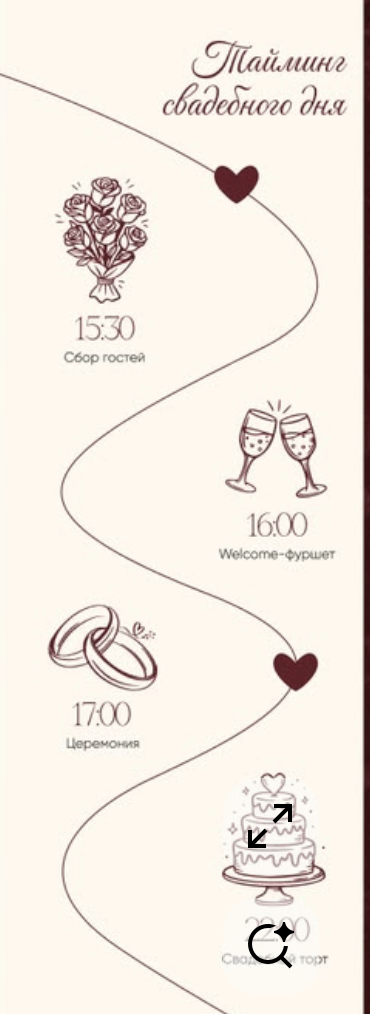
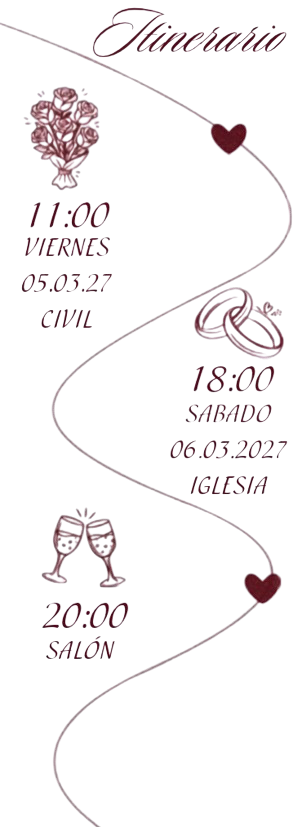
ARREGLAR LO DE LAS PERLAS

diff --git a/index.html b/index.html
@@ -34,14 +34,16 @@
      
       <h1 class="cover-names"><span class="name">Ignacio</span> <span class="amp">&amp;</span> <span class="name">Rocio</span></h1>
       <h2 class="cover-title">¡Nuestra Boda!</h2>
-      <p class="cover-quote">"Te elijo hoy y por el resto de mi vida"</p>
+      <p class="cover-quote">Nuestras almas se encontraron en el momento perfecto.
+ Hoy, nuestro sueño se hace realidad y queremos que seas parte de nuestro felices para siempre.</p>
 
-    </div>
-    <div class="cover-scroll">
-      <span>Deslizá</span>
-      <svg class="scroll-arrow" viewBox="0 0 24 24" fill="none" stroke="currentColor" stroke-width="1.6" stroke-linecap="round" stroke-linejoin="round" aria-hidden="true">
-        <path d="M6 9l6 6 6-6" />
-      </svg>
+      <div class="cover-scroll">
+        <span>Deslizá</span>
+        <svg class="scroll-arrow" viewBox="0 0 24 24" fill="none" stroke="currentColor" stroke-width="1.6" stroke-linecap="round" stroke-linejoin="round" aria-hidden="true">
+          <path d="M6 9l6 6 6-6" />
+        </svg>
+      </div>
+
     </div>
   </section>
 
@@ -50,7 +52,7 @@
     <div class="section-inner">
       <p class="section-eyebrow reveal">La fecha</p>
       <h2 class="section-title reveal">¿Cuándo nos casamos?</h2>
-      <p class="section-sub reveal">Nos casamos y queremos que seas parte de este momento tan especial.</p>
+    
 
       <div class="scratch-group reveal" id="scratch-group">
         <div class="scratch-circle" id="scratch-1">
@@ -94,25 +96,20 @@
   <!-- ===== ITINERARIO ===== -->
   <section id="itinerario" class="section cream">
     <div class="section-inner">
-      <p class="section-eyebrow gold reveal">Itinerario</p>
-      <h2 class="section-title reveal">El día de nuestra boda</h2>
-      <ul class="timeline reveal">
-        <li class="timeline-item">
-          <span class="timeline-time">18:00</span>
-          <span class="timeline-dot"></span>
-          <span class="timeline-event">Ceremonia</span>
-        </li>
-        <li class="timeline-item">
-          <span class="timeline-time">19:00</span>
-          <span class="timeline-dot"></span>
-          <span class="timeline-event">Recepción</span>
-        </li>
-        <li class="timeline-item">
-          <span class="timeline-time">20:30</span>
-          <span class="timeline-dot"></span>
-          <span class="timeline-event">Cena</span>
-        </li>
-      </ul>
+      <img class="itinerario-img reveal" src="assets/itinerario.png" alt="Itinerario del casamiento" />
+    </div>
+  </section>
+
+  <!-- ===== CIVIL ===== -->
+  <section id="civil" class="section dark video-bg glass-card-section">
+    <div class="section-inner glass-card">
+      <p class="section-eyebrow gold reveal">Civil</p>
+      <h2 class="section-title reveal">Registro Civil</h2>
+      <div class="event-meta reveal">
+        <p class="event-day">Viernes 5 · Marzo · 2027</p>
+        <p class="event-time">11:00 Hs</p>
+      </div>
+      <a class="btn outline reveal" href="https://www.google.com/maps/place/Delegaci%C3%B3n+Registro+Provincial+de+las+Personas+-+Mar+de+Ajo/@-36.7259494,-56.6757776,19z/data=!4m10!1m2!2m1!1sregistro+civil+mar+de+ajo!3m6!1s0x959c658ac9caad2b:0x949e29b48c77f63e!8m2!3d-36.7259494!4d-56.6746511!15sChlyZWdpc3RybyBjaXZpbCBtYXIgZGUgYWpvWhsiGXJlZ2lzdHJvIGNpdmlsIG1hciBkZSBham-SARNyZWdpc3RyYXRpb25fb2ZmaWNlmgEjQ2haRFNVaE5NRzluUzBWSlEwRm5TVVJmY0c5aU5WZG5FQUXgAQD6AQQIABBI!16s%2Fg%2F11g8wvjzp6?entry=ttu&g_ep=EgoyMDI2MDgxNi4wIKXMDSoASAFQAw%3D%3D" target="_blank" rel="noopener">Cómo llegar</a>
     </div>
   </section>
 
@@ -156,7 +153,7 @@
       </div>
       <p class="section-eyebrow gold reveal">Retratos</p>
       <h2 class="section-title reveal">Retratos de nuestro amor</h2>
-      <p class="section-sub reveal">La clave es disfrutar cada momento</p>
+
 
       <div class="gallery reveal" id="galeria">
         <figure class="g-item"><img src="assets/photo1.svg" alt="Foto 1" loading="lazy" /></figure>
@@ -190,15 +187,17 @@
         </svg>
       </div>
       <p class="section-eyebrow reveal">Dress Code</p>
-      <h2 class="section-title reveal">Una orientación<br />para tu vestimenta</h2>
-      <p class="dress-tag reveal">Formal / Elegante</p>
-      <p class="palette-note reveal">Evitá colores claros, beige y blanco.</p>
+    
+      <div class="dress-tag reveal">
+        <span class="dress-tag-title">Formal / Elegante</span>
+        <p class="palette-note">Evitá colores blancos, beige y claros.</p>
+      </div>
       <p class="section-sub reveal">Te dejamos algunos colores de sugerencia</p>
 
       <button class="btn solid reveal toggle-btn" data-toggle="dress-panel" data-more="Ver más" data-less="Ver menos">Ver más</button>
 
       <div class="panel panel-soft" id="dress-panel">
-        <p class="palette-title">Formal · Elegante</p>
+        <p class="palette-title">Paleta de colores</p>
         <ul class="palette">
           <li><span class="swatch" style="--c:#161616"></span>Negro</li>
           <li><span class="swatch" style="--c:#1f3d2b"></span>Verde</li>
@@ -217,7 +216,8 @@
       <ul class="tips-list reveal" id="tips-list">
         <li><span class="tip-mark">+</span> Por favor, ¡ser puntuales!</li>
         <li class="tip-extra"><span class="tip-mark">+</span> Llevar abrigo para disfrutar de los espacios exteriores.</li>
-        <li class="tip-extra"><span class="tip-mark">+</span> Llevar taco bajo o con plataforma, ya que la entrada es de pasto.</li>
+        <li class="tip-extra"><span class="tip-mark">+</span> Llevar taco bajo o con plataforma, ya que la entrada del salon es pasto.</li>
+                <li class="tip-extra"><span class="tip-mark">+</span> Llevar toallon/muda de ropa por si queres disfrutar de la pileta.</li>
         <li class="tip-extra"><span class="tip-mark">+</span> Olvidarse de todo y disfrutar!!!</li>
       </ul>
       <button class="btn outline reveal toggle-btn" data-toggle="tips-list" data-more="Ver tips" data-less="Ver menos">Ver tips</button>
@@ -252,9 +252,8 @@
         </svg>
       </div>
       <p class="section-eyebrow reveal">Regalos</p>
-      <h2 class="section-title reveal">Si querés darnos algo más<br />que tu hermosa presencia</h2>
-      <p class="section-sub reveal">Contaremos con sobres disponibles para depositar en el cofre. También pueden contribuir mediante:</p>
-
+      <h2 class="section-title reveal">Tu presencia es nuestro mejor regalo</h2>
+      <p class="section-sub reveal">Si querés hacernos un presente, podés colaborar con nuestra luna de miel</p>
       <button class="btn solid reveal toggle-btn" data-toggle="gift-panel" data-more="Ver más" data-less="Ver menos">Ver más</button>
 
       <div class="panel panel-gift" id="gift-panel">
@@ -276,8 +275,8 @@
         </svg>
       </div>
       <p class="section-eyebrow reveal">Invitación personal</p>
-      <h2 class="section-title reveal">Una invitación exclusiva</h2>
-      <p class="section-sub reveal">Esta invitación es exclusivamente para la persona a quien se está enviando.</p>
+      <h2 class="section-title reveal">Esta invitación es exclusivamente para la persona a quien se está enviando.</h2>
+      <p class="section-sub reveal">No te olvides de completar el fomulario mas abajo.</p>
     </div>
   </section>
 

diff --git a/css/styles.css b/css/styles.css
@@ -69,6 +69,20 @@ img { display: block; max-width: 100%; }
 
 .section.cream, .section.dark { background: #fff; color: var(--text-on-cream); }
 
+/* ====== PERLAS EN ESQUINAS ====== */
+.perla-corner {
+  position: absolute;
+  width: 90px;
+  height: auto;
+  pointer-events: none;
+  z-index: 2;
+}
+
+.perla-tl { top: 6px; left: 6px; }
+.perla-tr { top: 6px; right: 6px; transform: scaleX(-1); }
+.perla-bl { bottom: 6px; left: 6px; transform: scaleY(-1); }
+.perla-br { bottom: 6px; right: 6px; transform: scale(-1, -1); }
+
 .section.video-bg { background: transparent; color: var(--cream); }
 
 .section.video-bg::before,
@@ -165,6 +179,13 @@ img { display: block; max-width: 100%; }
 }
 
 /* ====== ITINERARIO ====== */
+.itinerario-img {
+  width: 100%;
+  max-width: 370px;
+  display: block;
+  margin: 0 auto;
+  border-radius: 14px;
+}
 .timeline {
   list-style: none;
   margin-top: 40px;
@@ -307,14 +328,11 @@ img { display: block; max-width: 100%; }
 }
 
 .cover-scroll {
-  position: absolute;
-  bottom: 160px;
-  left: 50%;
-  transform: translateX(-50%);
   display: flex;
   flex-direction: column;
   align-items: center;
   gap: 10px;
+  margin-top: 40px;
   color: var(--text-on-cream);
   opacity: 0.8;
   font-family: var(--sans);
@@ -506,11 +524,12 @@ img { display: block; max-width: 100%; }
   text-transform: uppercase;
   color: var(--gold-light);
   opacity: 0.8;
+  text-align: center;
 }
 
 /* ====== DRESS CODE ====== */
 .dress-tag {
-  display: inline-block;
+  display: block;
   font-family: var(--script);
   font-size: 40px;
   color: var(--gold);
@@ -518,6 +537,20 @@ img { display: block; max-width: 100%; }
   border-radius: 60px;
   padding: 12px 38px 18px;
   margin: 10px 0 30px;
+  text-align: center;
+}
+
+.dress-tag-title {
+  display: block;
+}
+
+.dress-tag .palette-note {
+  font-size: 12px;
+  letter-spacing: 1.5px;
+  text-transform: uppercase;
+  font-family: var(--sans);
+  color: var(--gold);
+  margin-top: 6px;
 }
 
 /* ====== TIPS ====== */
@@ -1097,8 +1130,8 @@ body.no-scroll { overflow: hidden; }
   position: absolute;
   bottom: -70px;
   border-radius: 50%;
-  background: radial-gradient(circle at 32% 30%, rgba(255, 255, 255, 0.4), rgba(178, 58, 78, 0.28) 55%, rgba(110, 20, 35, 0.18));
-  border: 1px solid rgba(255, 255, 255, 0.35);
+  background: radial-gradient(circle at 32% 30%, rgba(255, 255, 255, 0.7), rgba(178, 58, 78, 0.45) 55%, rgba(110, 20, 35, 0.3));
+  border: 1.5px solid rgba(255, 255, 255, 0.6);
   animation: bubbleRise linear infinite;
   will-change: transform, opacity;
 }
@@ -1108,8 +1141,8 @@ body.no-scroll { overflow: hidden; }
     transform: translateY(0) translateX(0) scale(1);
     opacity: 0;
   }
-  10% { opacity: var(--o, 0.5); }
-  85% { opacity: var(--o, 0.5); }
+  10% { opacity: var(--o, 0.8); }
+  85% { opacity: var(--o, 0.8); }
   100% {
     transform: translateY(calc(-100vh - 80px)) translateX(var(--sway, 30px)) scale(1.05);
     opacity: 0;

diff --git a/js/script.js b/js/script.js
@@ -162,12 +162,12 @@
     for (let i = 0; i < count; i++) {
       const b = d.createElement("span");
       b.className = "bubble";
-      const size = 10 + Math.random() * 38;
+      const size = 18 + Math.random() * 48;
       b.style.width = b.style.height = size.toFixed(1) + "px";
       b.style.left = (Math.random() * 100).toFixed(1) + "%";
       b.style.setProperty("--sway", (Math.random() * 60 - 30).toFixed(0) + "px");
-      b.style.setProperty("--o", (0.15 + Math.random() * 0.35).toFixed(2));
-      b.style.animationDuration = (12 + Math.random() * 18).toFixed(1) + "s";
+      b.style.setProperty("--o", (0.4 + Math.random() * 0.4).toFixed(2));
+      b.style.animationDuration = (10 + Math.random() * 14).toFixed(1) + "s";
       b.style.animationDelay = (-Math.random() * 30).toFixed(1) + "s";
       layer.appendChild(b);
     }
@@ -576,6 +576,22 @@
     audio.addEventListener("play", () => setPlaying(true));
   }
 
+  /* ---------- Perlas en esquinas ---------- */
+  function initPerlas() {
+    const corners = ["perla-tl", "perla-tr", "perla-bl", "perla-br"];
+    d.querySelectorAll(".section.cream, .section.dark").forEach((sec) => {
+      if (sec.classList.contains("video-bg") || sec.classList.contains("glass-card-section")) return;
+      corners.forEach((cls) => {
+        const img = d.createElement("img");
+        img.src = "assets/perlas.png";
+        img.alt = "";
+        img.className = "perla-corner " + cls;
+        img.setAttribute("aria-hidden", "true");
+        sec.appendChild(img);
+      });
+    });
+  }
+
   /* ---------- Init ---------- */
   function init() {
     initEntrada();
@@ -591,6 +607,7 @@
     initGallery();
     initRsvp();
     initMusic();
+    initPerlas();
     // Fuerza visibilidad de la portada
     d.querySelectorAll("#portada .reveal").forEach((el) =>
       el.classList.add("is-visible")
